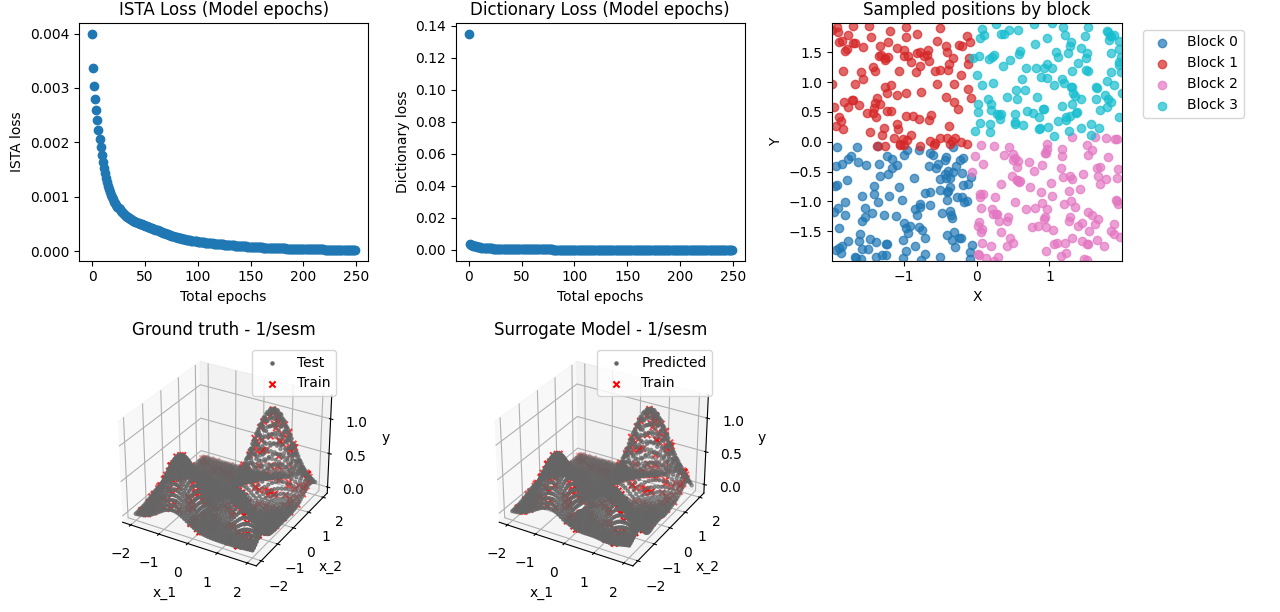
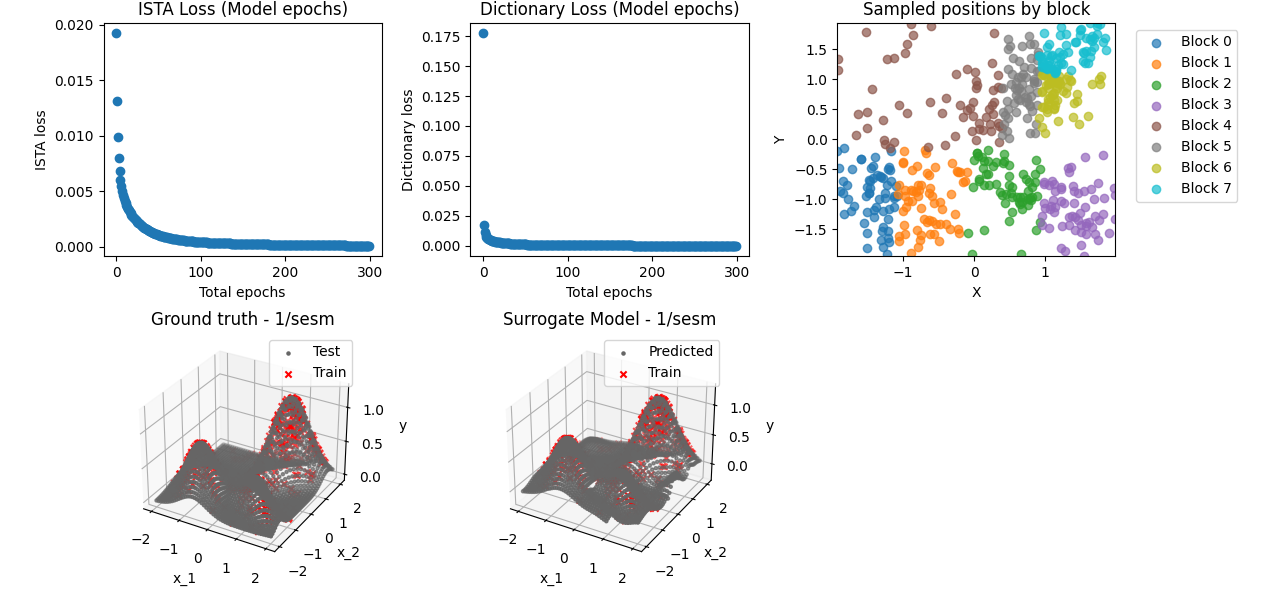
docs: update users manual and kdtree bsesm figures

diff --git a/docs/UsersManual.md b/docs/UsersManual.md
@@ -359,19 +359,17 @@ from pysesm.blocks.SESMData import SESMData
 device = torch.device("cuda" if torch.cuda.is_available() else "cpu")
 
 # 1. Strategy: how the KD-Tree splits the data
-strategy_conf = KDTreeStrategyConfig(
-    maxNodeSize=30,        # max points per node before it splits
-    device=device,
-    data_wrapper=SESMData, # class used to wrap the data in each node
-)
-
-# 2. Partition Manager: wraps the strategy and adds overlap between blocks
-partition_config = AdaptivePartitionConfig(
-    overlap_ratio=0.1,                 # overlap between adjacent blocks
-    partition_strategy=KDTreeStrategy, # strategy constructor
-    strategy_config=strategy_conf,
-    device=device,
-)
+    strategy_conf = KDTreeStrategyConfig(
+        maxNodeSize=100,
+        device=device,
+        data_wrapper=SESMData
+    )
+    partition_config = AdaptivePartitionConfig(
+        overlap_ratio=0.25,
+        partition_strategy=KDTreeStrategy,
+        strategy_config=strategy_conf,
+        device=device
+    )
 ```
 
 **Key parameters**